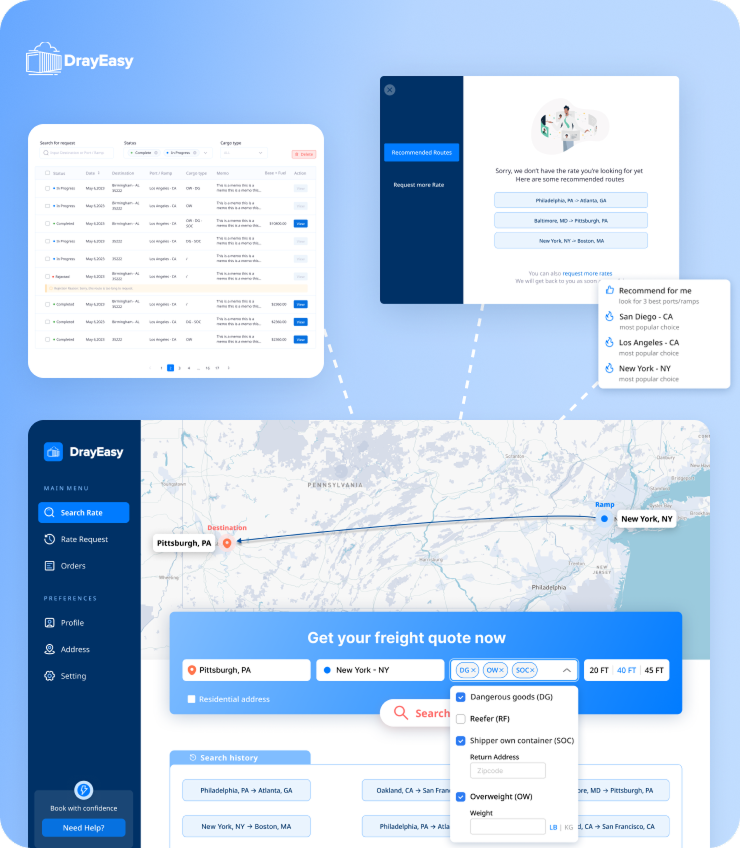
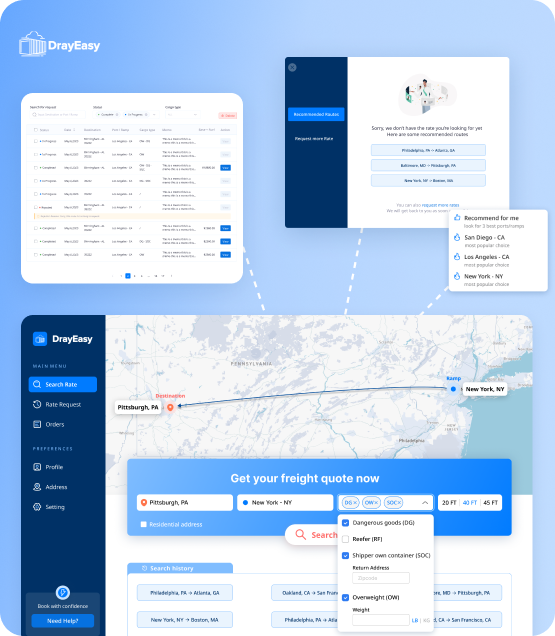
Refine DrayEasy case study responsive layout
- Fix content margins in full-bleed sections on desktop and mobile
- Keep two-column gap from collapsing on narrow desktop
- Adjust mobile typography scale and section spacing
- Restructure mobile meta info and production section order
- Fix Shipped tag width on mobile

diff --git a/drayeasy.css b/drayeasy.css
@@ -130,6 +130,21 @@ body {
     color: var(--text-primary);
 }
 
+/* .case-meta-group 只在手机端有意义（真正的两列并排容器）——桌面端
+   display:contents 让它从盒子树里消失，.case-meta 的 flex 子元素直接
+   变成里面那 5 个 .case-meta-col（DOM 顺序现在是 ROLE,TEAM,TIMELINE,
+   OUTCOME,CONTRIB，为了手机端分组才这样排的），用下面这组 order 把
+   桌面端的视觉顺序退回原来的 ROLE,CONTRIBUTION,TEAM,TIMELINE,OUTCOME，
+   桌面端效果因此跟改之前完全一样 */
+.case-meta-group {
+    display: contents;
+}
+.case-meta-col-role     { order: 1; }
+.case-meta-col-contrib  { order: 2; }
+.case-meta-col-team     { order: 3; }
+.case-meta-col-timeline { order: 4; }
+.case-meta-col-outcome  { order: 5; }
+
 /* ============================================================
    Problem Overview 区块
    ============================================================ */
@@ -146,7 +161,14 @@ body {
     margin-bottom: 168px;   /* Problem Overview 区块 → 下一个区块 */
 
     background: var(--bg-blue);
-    padding: 64px 0;
+    /* 左右 24px 是修复对齐用的——全站 box-sizing:border-box（见
+       content.css 的 * 重置），这里的 width:calc(100%+48px) 声明的是
+       border-box 宽度，加 padding 不会改变出血出来的可见宽度（背景照样
+       铺满到这个宽度），只是把 .case-problem-inner 这个 max-width:1056px
+       的内容区往里收 24px，不再贴着出血边缘——跟 main 给其它非出血区块
+       （.case-workflow 等）天然带的 24px 边距是同一个数值，只是这里要
+       显式补上，因为出血本来就是用来逃开 main 的 padding 的 */
+    padding: 64px 24px;
 }
 
 /* 背景带内部的实际内容再收回 1056px 居中，左栏卡片固定 317px、右栏图
@@ -159,12 +181,13 @@ body {
     display: flex;
     flex-direction: row;
     align-items: flex-start;
-    justify-content: space-between;
+    gap: 32px;   /* 固定间距，不靠 justify-content:space-between——那样窄屏下两栏
+                    宽度不够时会先把 gap 压缩到 0，卡片和图片会贴在一起 */
 }
 
 .case-problem-card {
     box-sizing: border-box;
-    width: 317px;
+    flex: 0 0 317px;   /* 固定宽度，不参与伸缩——窄屏时只应该是右边的图片变窄 */
     padding: 16px;
 
     background: var(--bg-reading);
@@ -210,7 +233,8 @@ body {
 }
 
 .case-problem-img {
-    width: 706px;
+    flex: 1 1 auto;   /* 吸收剩余空间——窄屏时只缩小图片，不挤压左边固定宽度的卡片 */
+    min-width: 0;   /* 允许在 flex 里正常缩小，不被图片原始内在尺寸撑爆 */
     height: auto;
     border-radius: 12px;
     filter:
@@ -389,7 +413,10 @@ body {
     margin-bottom: 168px;   /* 区块本身 → 下一个区块，跟前面几个区块一致 */
 
     background: #F5F5F5;   /* content.css 的 :root 里没有这个颜色，直接写十六进制 */
-    padding: 84px 0;
+    /* 左右 24px，跟 .case-problem-band 同一个对齐修复、同一个原因——
+       出血宽度本身不变（border-box + calc(100%+48px)），只是把内容区
+       往里收，不再贴着出血边缘 */
+    padding: 84px 24px;
 }
 
 .case-before-inner {
@@ -866,9 +893,21 @@ body {
     .case-closing            { order: 12; }
 
     /* Shipped tag 现在是第一个元素，顶部间距用你给的安全区公式，
-       不再是"hero 图底部 → tag 顶部"的 48px（hero 图已经不在它上面了） */
+       不再是"hero 图底部 → tag 顶部"的 48px（hero 图已经不在它上面了）。
+
+       撑满整行的根因：.case-content 在这个断点下是 display:contents，
+       .case-tag 因此变成 .case-overlay-body main（display:flex;
+       flex-direction:column）的直接 flex 子元素——main 没有设
+       align-items，默认值 stretch 会把交叉轴（这里是宽度）拉伸到跟
+       容器一样宽，跟 .case-tag 自己是 display:inline-flex 没关系
+       （那个只管它自己内部 dot+文字怎么排，不管它作为别人的 flex 子项
+       时怎么被撑）。align-self:flex-start 让这一个元素单独跳出 main
+       的默认 stretch，回到跟着内容走的宽度 */
     .case-tag {
         margin-top: max(76px, env(safe-area-inset-top) + 52px);
+        display: inline-flex;
+        width: auto;
+        align-self: flex-start;
     }
 
     .case-title {
@@ -893,18 +932,50 @@ body {
         width: 100%;
         margin-left: 0;
         margin-right: 0;
-        margin-top: 72px;   /* 副标题 → hero 图 */
+        margin-top: 48px;   /* 副标题 → hero 图，原来是 72px，这轮统一收到 48px */
         height: auto;
     }
 
-    /* 元信息行：横向五列改成纵向堆叠（用户在 370px 宽度下更好读——两列
-       网格会让 MY CONTRIBUTION 这种四行内容和它的标签挤在不到一半屏宽
-       里，单列堆叠更稳妥，见对话里的说明） */
+    /* 分隔线：桌面版 118px（副标题→分隔线）在这个断点下没有被覆盖过，
+       现在顺序已经变成"hero 图→分隔线"，这次改成 72px */
+    .case-divider {
+        margin-top: 72px;
+    }
+
+    /* 元信息行容器：整体左侧多留 32px（右侧不额外加），内部三组之间
+       24px——分组结构见 drayeasy.html 的 .case-meta-group 注释 */
     .case-meta {
         flex-direction: column;
         justify-content: flex-start;
-        align-items: flex-start;
+        align-items: stretch;   /* 让每组/单列撑满容器宽度，配合下面每组自己的 space-between */
         gap: 24px;
+        margin-top: 36px;   /* 分隔线 → 元信息行，桌面端本来就是这个数字，这里显式写一遍 */
+        padding-left: 32px;
+        padding-right: 0;
+    }
+    /* 桌面端 .case-meta-group 是 display:contents，手机端这里改回真正的
+       flex 容器，两列各自 flex:1、space-between 分布 */
+    .case-meta-group {
+        display: flex;
+        flex-direction: row;
+        justify-content: space-between;
+        align-items: flex-start;
+    }
+    /* 桌面端用来把视觉顺序退回原样的 order，手机端不需要——DOM 顺序
+       本来就已经是想要的显示顺序（ROLE,TEAM,TIMELINE,OUTCOME,CONTRIB），
+       重置回 0 避免桌面端那套 order 在这里也生效 */
+    .case-meta-col-role,
+    .case-meta-col-contrib,
+    .case-meta-col-team,
+    .case-meta-col-timeline,
+    .case-meta-col-outcome {
+        order: 0;
+    }
+    .case-meta-col-role,
+    .case-meta-col-team,
+    .case-meta-col-timeline,
+    .case-meta-col-outcome {
+        flex: 1;
     }
 
     /* ---- 区块之间的大间距：130/168/250 统一收到 80px ---- */
@@ -919,12 +990,15 @@ body {
     /* ---- 蓝色/灰色出血色带：桌面版 calc(100%+48px)/-24px 是按 main
        的桌面 padding(24px) 算的，main 在这个断点下 padding 已经改成
        16px，出血量要跟着改成 calc(100%+32px)/-16px，不然色带会比屏幕
-       还宽 16px，两侧各溢出 8px 出去 ---- */
+       还宽 16px，两侧各溢出 8px 出去。左右 padding 同理从桌面版的 24px
+       降到 16px，跟 hero 区的内容边距一致，不然内容还是会贴着出血边缘 ---- */
     .case-problem-band,
     .case-before-band {
         width: calc(100% + 32px);
         margin-left: -16px;
         margin-right: -16px;
+        padding-left: 16px;
+        padding-right: 16px;
     }
 
     /* ---- 小标题：24px 降到 20px（Problem Overview 卡片标题
@@ -935,7 +1009,60 @@ body {
     .case-before-subtitle,
     .case-process-subtitle,
     .case-production-subtitle {
+        font-size: 16px;
+        line-height: 22px;
+    }
+
+    /* ---- 区块大标题：整层级再降一档，20px/28px（上一轮先降到过
+       24px/33px，这次继续往下） ---- */
+    .case-workflow-title,
+    .case-before-title,
+    .case-process-title,
+    .case-production-title,
+    .case-closing-title {
         font-size: 20px;
+        line-height: 28px;
+    }
+
+    /* ---- 原本 16px/22px/500 的标签类文字，整层降到 14px/500/150%。
+       按数值找，不按名字找——除了你点名的 Problem:/Solution:/Before/
+       After，还有两张卡片自己的小标题("📌 Problem Overview"、
+       "🔎 Usability testing")和 rate request 那组的 Before/After
+       标签，数值上都是同一档 16px/22px/500，一并处理；.case-subtitle
+       虽然桌面端也是 16px，但手机端已经单独降到 14px 了，不在这个
+       范围内，跳过 ---- */
+    .case-problem-card-title,
+    .case-improvement-label,
+    .case-before-flow-label,
+    .case-process-rate-label,
+    .case-production-card-title {
+        font-size: 14px;
+        font-weight: 500;
+        line-height: 150%;
+    }
+
+    /* ---- 原本 14px/500 的正文类文字，字重降到 350（字号/行高不变）。
+       同样按数值找：.case-meta-value（元信息的内容，不是你说的 12px
+       标签那个）和 .case-problem-card-body ol（数字列表，桌面端故意
+       保持比 <p> 重一档的 500 做对比，这次一起降）都命中这一档，如果
+       这两处不是你想改的，告诉我单独排除 ---- */
+    .case-meta-value,
+    .case-problem-card-body ol {
+        font-weight: 350;
+    }
+
+    /* ---- 大间距整体下降：72px 收到 48px，108px 收到 72px。
+       .case-hero-img 的 72px 已经在上面单独改过了，这里是其余几处 ---- */
+    .case-workflow,
+    .case-before-inner,
+    .case-process,
+    .case-production {
+        gap: 48px;
+    }
+    .case-improvements,
+    .case-before-list,
+    .case-process-list {
+        gap: 72px;
     }
 
     /* ---- 所有横排双栏改成纵向堆叠，堆叠后每组之间 32px ----
@@ -961,18 +1088,34 @@ body {
         flex: none;
         width: 100%;
     }
+    /* From Prototype to Production 这两组堆叠顺序对调：文字在上、图在
+       下——DOM 里图片在前、文字在后，column-reverse 只反转视觉顺序，
+       不用改 HTML。上面那条共享规则已经把 flex-direction 设成
+       column，这里用同一个选择器、更晚声明，覆盖成 column-reverse */
+    .case-production-group {
+        flex-direction: column-reverse;
+    }
 
-    /* ---- Design Process 三张卡片：横排改纵向堆叠，24px 间距，
-       宽度撑满容器 ---- */
+    /* ---- Design Process 三张卡片：手机上保持一排（不覆盖
+       flex-direction，沿用桌面版的 row），靠原有的 flex-grow 比例
+       （348/316/227）整体按比例收缩，只缩小卡片自己的 padding/内部
+       间距/标题字号，外层 gap 收到 8px。这几张图本来就是"一眼扫过"
+       性质的缩略图，内容看不清没关系，想细看有 lightbox 点击放大
+       （见 drayeasy.html 的 data-lightbox） ---- */
     .case-process-cards {
-        flex-direction: column;
-        gap: 24px;
+        gap: 8px;
+    }
+    .case-process-card {
+        padding: 8px;
     }
     .case-process-card-1,
     .case-process-card-2,
     .case-process-card-3 {
-        flex: none;
-        width: 100%;
+        gap: 6px;
+    }
+    .case-process-card-title {
+        font-size: 9px;
+        line-height: 12px;
     }
 
     /* ---- rate request 的 Before/After 两张图：并排改纵向堆叠。
@@ -986,5 +1129,15 @@ body {
     .case-process-rate-col-2 {
         flex: none;
         width: 100%;
+    }
+
+    /* ---- 收尾段落："Complex workflows shouldn't..." 从 Title 2(24px)
+       降级成 Text medium，颜色维持现有的 --text-secondary 不变。
+       字重这次又从 500 降到 350，跟这轮"14px/500→14px/350"那条正文
+       降级规则是同一档，归到一起改 ---- */
+    .case-closing-body {
+        font-size: 14px;
+        font-weight: 350;
+        line-height: 150%;
     }
 }

diff --git a/drayeasy.html b/drayeasy.html
@@ -43,25 +43,37 @@
         <div class="case-divider"></div>
 
         <div class="case-meta">
-            <div class="case-meta-col">
-                <span class="case-meta-label">ROLE</span>
-                <span class="case-meta-value">UX Designer</span>
+            <!-- 手机端要把这 5 列重新分组成"ROLE+TEAM 一行 / TIMELINE+
+                 OUTCOME 一行 / MY CONTRIBUTION 单独一行"，DOM 顺序因此
+                 改成 ROLE,TEAM,TIMELINE,OUTCOME,CONTRIB（用 .case-meta-group
+                 包住每一对），桌面端靠 .case-meta-col-* 上的 order 把
+                 视觉顺序退回原样（ROLE,CONTRIBUTION,TEAM,TIMELINE,
+                 OUTCOME），配合 .case-meta-group 在桌面端是 display:contents
+                 （不产生自己的盒子），桌面端效果跟改之前完全一样，只有
+                 手机端断点内会真的按分组两两并排 -->
+            <div class="case-meta-group">
+                <div class="case-meta-col case-meta-col-role">
+                    <span class="case-meta-label">ROLE</span>
+                    <span class="case-meta-value">UX Designer</span>
+                </div>
+                <div class="case-meta-col case-meta-col-team">
+                    <span class="case-meta-label">TEAM</span>
+                    <span class="case-meta-value">6 UX designers<br>1 PM + engineering</span>
+                </div>
             </div>
-            <div class="case-meta-col">
+            <div class="case-meta-group">
+                <div class="case-meta-col case-meta-col-timeline">
+                    <span class="case-meta-label">TIMELINE</span>
+                    <span class="case-meta-value">Feb - May 2023</span>
+                </div>
+                <div class="case-meta-col case-meta-col-outcome">
+                    <span class="case-meta-label">OUTCOME</span>
+                    <span class="case-meta-value">Shipped in 2023<br>Still live today</span>
+                </div>
+            </div>
+            <div class="case-meta-col case-meta-col-contrib">
                 <span class="case-meta-label">MY CONTRIBUTION</span>
                 <span class="case-meta-value">Domain research<br>Journey mapping<br>Workflow restructuring<br>Wireframe iteration</span>
-            </div>
-            <div class="case-meta-col">
-                <span class="case-meta-label">TEAM</span>
-                <span class="case-meta-value">6 UX designers<br>1 PM + engineering</span>
-            </div>
-            <div class="case-meta-col">
-                <span class="case-meta-label">TIMELINE</span>
-                <span class="case-meta-value">Feb - May 2023</span>
-            </div>
-            <div class="case-meta-col">
-                <span class="case-meta-label">OUTCOME</span>
-                <span class="case-meta-value">Shipped in 2023<br>Still live today</span>
             </div>
         </div>
 
@@ -250,15 +262,15 @@
                 <div class="case-process-cards">
                     <div class="case-process-card case-process-card-1">
                         <p class="case-process-card-title">Search input iterations</p>
-                        <img class="case-process-card-img" src="assets/images/drayeasy/search inputs_iterations.png" alt="Search input iterations">
+                        <img class="case-process-card-img" src="assets/images/drayeasy/search inputs_iterations.png" alt="Search input iterations" data-lightbox>
                     </div>
                     <div class="case-process-card case-process-card-2">
                         <p class="case-process-card-title">Map iterations</p>
-                        <img class="case-process-card-img" src="assets/images/drayeasy/map_iterations.png" alt="Map iterations">
+                        <img class="case-process-card-img" src="assets/images/drayeasy/map_iterations.png" alt="Map iterations" data-lightbox>
                     </div>
                     <div class="case-process-card case-process-card-3">
                         <p class="case-process-card-title">Cargo type iterations</p>
-                        <img class="case-process-card-img" src="assets/images/drayeasy/cargo type_iterations.png" alt="Cargo type iterations">
+                        <img class="case-process-card-img" src="assets/images/drayeasy/cargo type_iterations.png" alt="Cargo type iterations" data-lightbox>
                     </div>
                 </div>
             </div>
